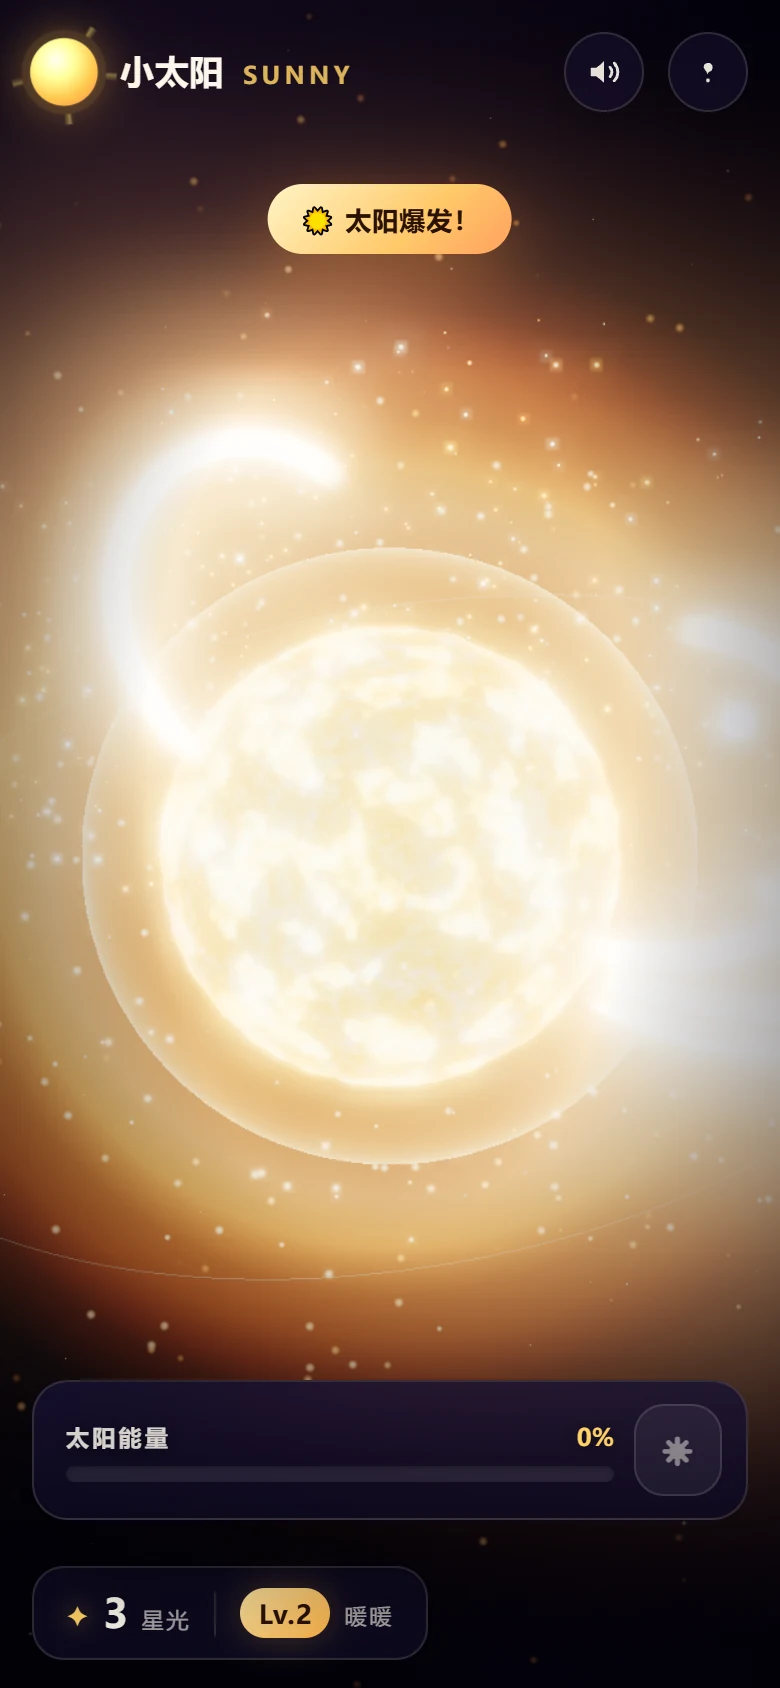
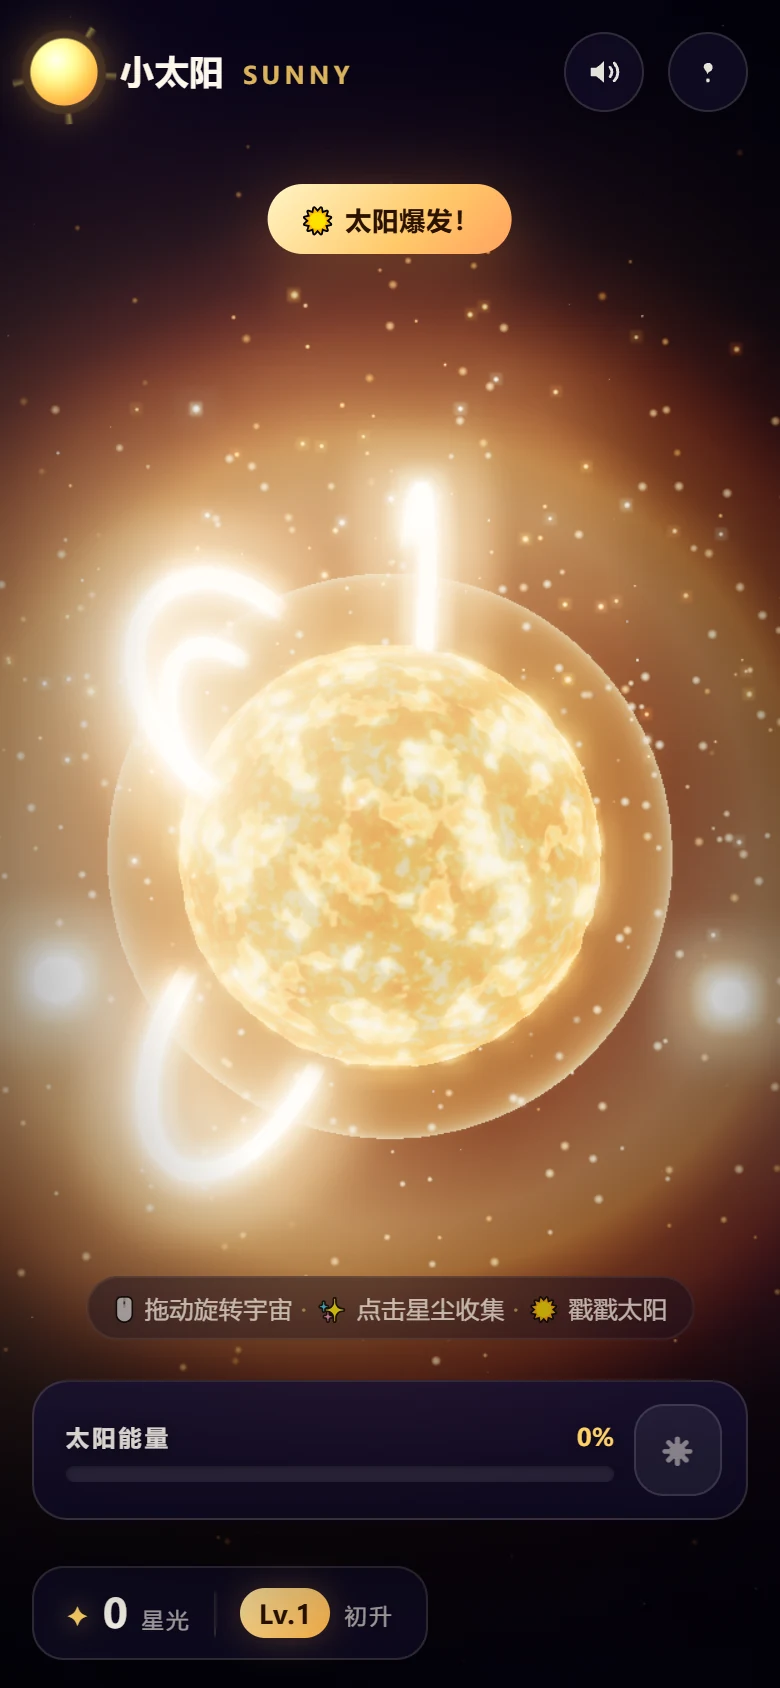
fix: 缓和移动端太阳爆发峰值亮度
移动端爆发使用更少的火花、更低的日冕增亮与冲击波叠加透明度，并降低全屏闪光强度，保留太阳表面细节和 HUD 可读性；桌面端强度不变。

diff --git a/src/fx.js b/src/fx.js
@@ -148,9 +148,9 @@ export class FX {
   }
 
   /** The full corona eruption. */
-  eruption(scale = 1) {
+  eruption(scale = 1, { sparkCount = 250, waveOpacity = 1 } = {}) {
     const origin = new THREE.Vector3(0, 0, 0);
-    const count = 250;
+    const count = sparkCount;
     for (let i = 0; i < count; i += 1) {
       const dir = new THREE.Vector3(0, 0, 0);
       randomDirection(dir);
@@ -172,9 +172,9 @@ export class FX {
     }
 
     // Expanding rings: a crisp inner shockwave plus two soft halos.
-    this.wave(origin, { color: 0xfff0c0, maxScale: 8.4, duration: 1.7, opacity: 0.7, startScale: 2.4 });
-    this.wave(origin, { color: 0xffa04a, maxScale: 11.5, duration: 2.1, opacity: 0.38, startScale: 3.2 });
-    this.wave(origin, { color: 0xff7a9a, maxScale: 6.4, duration: 1.35, opacity: 0.3, startScale: 2 });
+    this.wave(origin, { color: 0xfff0c0, maxScale: 8.4, duration: 1.7, opacity: 0.7 * waveOpacity, startScale: 2.4 });
+    this.wave(origin, { color: 0xffa04a, maxScale: 11.5, duration: 2.1, opacity: 0.38 * waveOpacity, startScale: 3.2 });
+    this.wave(origin, { color: 0xff7a9a, maxScale: 6.4, duration: 1.35, opacity: 0.3 * waveOpacity, startScale: 2 });
 
     // Plasma loops around the limb.
     for (let i = 0; i < 4; i += 1) {

diff --git a/src/main.js b/src/main.js
@@ -324,11 +324,12 @@ function doBurst() {
 }
 
 function handleBurst() {
-  fx.eruption(sun.scale * 1.02);
-  sun.pulse(0.95);
-  cameraRig.shake(0.32);
-  flashScreen();
-  world.bloomBoost = 0.3;
+  const soft = coarsePointer;
+  fx.eruption(sun.scale * 1.02, { sparkCount: soft ? 140 : 250, waveOpacity: soft ? 0.45 : 1 });
+  sun.pulse(soft ? 0.34 : 0.95);
+  cameraRig.shake(soft ? 0.2 : 0.32);
+  flashScreen(soft ? 0.4 : 1);
+  world.bloomBoost = soft ? 0.08 : 0.3;
   audio.burst();
   toast('☀ 太阳爆发！', 2200);
   spawnFloat('爆发！', window.innerWidth / 2, window.innerHeight * 0.38, 'gold');
@@ -398,7 +399,8 @@ function spawnFloat(text, x, y, kind = '') {
   window.setTimeout(() => el.remove(), 1400);
 }
 
-function flashScreen() {
+function flashScreen(strength = 1) {
+  dom.flash.style.setProperty('--flash-opacity', String(clamp(strength, 0.2, 1)));
   dom.flash.classList.add('on');
   window.setTimeout(() => dom.flash.classList.remove('on'), 80);
 }
@@ -649,4 +651,3 @@ boot().catch((error) => {
   console.error('[sunny] boot failed', error);
   showFatal(error);
 });
-

diff --git a/styles.css b/styles.css
@@ -777,7 +777,7 @@ body:not(.playing) .hint { display: none; }
   transition: opacity 0.45s ease-out;
 }
 .flash.on {
-  opacity: 1;
+  opacity: var(--flash-opacity, 1);
   transition: opacity 0.06s ease-in;
 }
 
